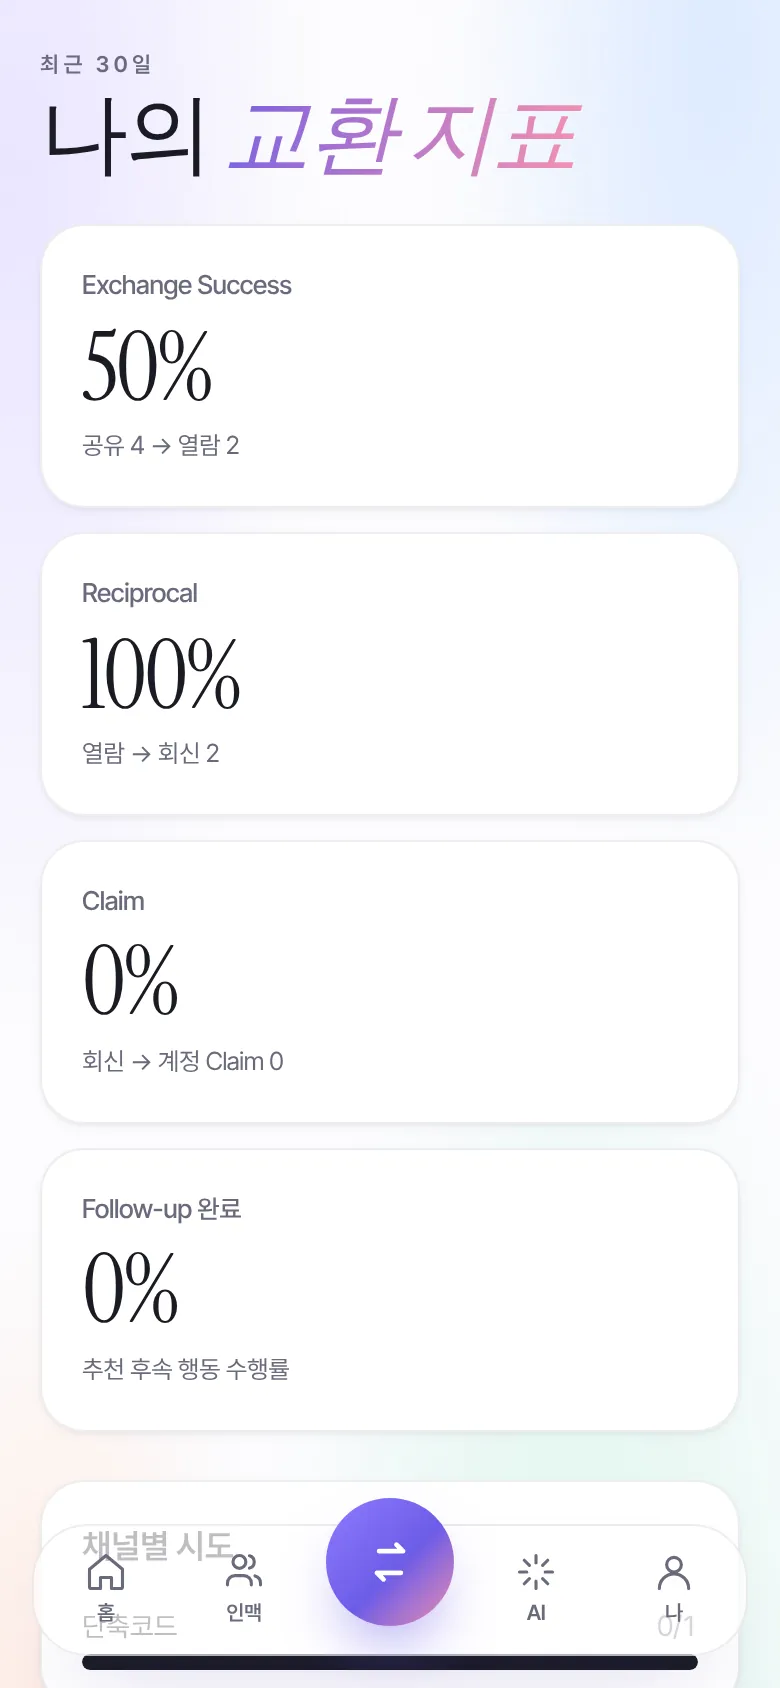
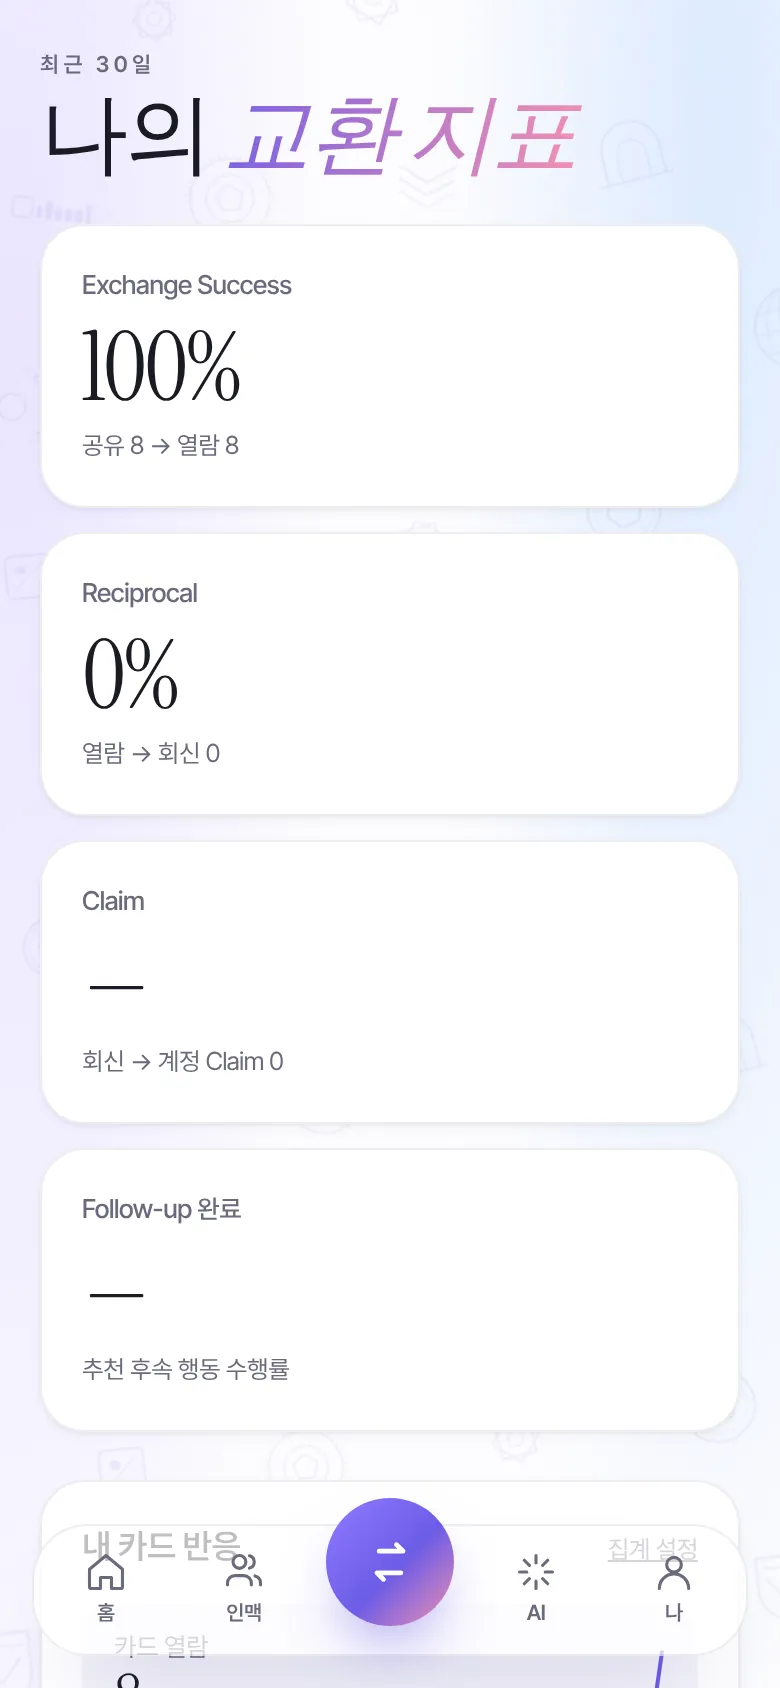
docs: template studio and share-tool screens in the UI gallery
Claude-Session: https://claude.ai/code/session_01XmAJRHbiNJbfmZ96e5SyBp

diff --git a/docs/UI_PREVIEW.md b/docs/UI_PREVIEW.md
@@ -124,3 +124,35 @@
 [`apps/web/src/app/app/integrations/Integrations.tsx`](../apps/web/src/app/app/integrations/Integrations.tsx)
 
 <img src="screenshots/d-app-integrations.webp" alt="CRM · 자동화" width="900">
+
+## 명함 디자인 스튜디오 — 오리지널 템플릿 50종 (X-008)
+
+같은 명함을 8개 템플릿으로 게스트 수신 화면에서 본 모습입니다. 실제 기업 명함·로고를 복제하지 않은 오리지널 디자인이며, 50종 모두 글자 대비(WCAG AA)를 자동 검사합니다.
+
+<table>
+<tr>
+<td width="25%" valign="top"><img src="screenshots/m-tpl-noir-gold-foil.webp" alt="누아르 골드 포일" width="200"><br><b>누아르 골드 포일</b><br><a href="../packages/domain/src/cardTemplates.ts"><code>cardTemplates.ts</code></a></td>
+<td width="25%" valign="top"><img src="screenshots/m-tpl-swiss-grid.webp" alt="스위스 그리드" width="200"><br><b>스위스 그리드</b><br><a href="../packages/domain/src/cardTemplates.ts"><code>cardTemplates.ts</code></a></td>
+<td width="25%" valign="top"><img src="screenshots/m-tpl-dancheong-band.webp" alt="단청 띠" width="200"><br><b>단청 띠</b><br><a href="../packages/domain/src/cardTemplates.ts"><code>cardTemplates.ts</code></a></td>
+<td width="25%" valign="top"><img src="screenshots/m-tpl-holo-prism.webp" alt="홀로 프리즘" width="200"><br><b>홀로 프리즘</b><br><a href="../packages/domain/src/cardTemplates.ts"><code>cardTemplates.ts</code></a></td>
+</tr>
+<tr>
+<td width="25%" valign="top"><img src="screenshots/m-tpl-marble-veil.webp" alt="마블 베일" width="200"><br><b>마블 베일</b><br><a href="../packages/domain/src/cardTemplates.ts"><code>cardTemplates.ts</code></a></td>
+<td width="25%" valign="top"><img src="screenshots/m-tpl-hanji-fiber.webp" alt="한지 결 (세로)" width="200"><br><b>한지 결 (세로)</b><br><a href="../packages/domain/src/cardTemplates.ts"><code>cardTemplates.ts</code></a></td>
+<td width="25%" valign="top"><img src="screenshots/m-tpl-blueprint.webp" alt="블루프린트" width="200"><br><b>블루프린트</b><br><a href="../packages/domain/src/cardTemplates.ts"><code>cardTemplates.ts</code></a></td>
+<td width="25%" valign="top"><img src="screenshots/m-tpl-pastel-lavender.webp" alt="파스텔 라벤더" width="200"><br><b>파스텔 라벤더</b><br><a href="../packages/domain/src/cardTemplates.ts"><code>cardTemplates.ts</code></a></td>
+</tr>
+</table>
+
+<table>
+<tr>
+<td width="25%" valign="top"><img src="screenshots/m-app-templates.webp" alt="템플릿 갤러리 · 추천" width="200"><br><b>템플릿 갤러리 · 추천</b><br><a href="../apps/web/src/app/app/me/templates/TemplatesClient.tsx"><code>TemplatesClient.tsx</code></a></td>
+<td width="25%" valign="top"><img src="screenshots/m-app-share.webp" alt="공유 도구 — 메일 서명·가상 배경·지갑·포스터" width="200"><br><b>공유 도구 — 메일 서명·가상 배경·지갑·포스터</b><br><a href="../apps/web/src/app/app/me/share"><code>me/share</code></a></td>
+<td width="25%" valign="top"><img src="screenshots/m-app-brief.webp" alt="미팅 전 30초 브리핑" width="200"><br><b>미팅 전 30초 브리핑</b><br><a href="../apps/web/src/app/app/brief"><code>app/brief</code></a></td>
+<td width="25%" valign="top"><img src="screenshots/m-app-reconnect.webp" alt="관계 재연결 (초안만)" width="200"><br><b>관계 재연결 (초안만)</b><br><a href="../apps/web/src/app/app/reconnect"><code>app/reconnect</code></a></td>
+</tr>
+</table>
+
+### 템플릿 갤러리 (데스크톱)
+
+<img src="screenshots/d-app-templates.webp" alt="템플릿 갤러리" width="900">
